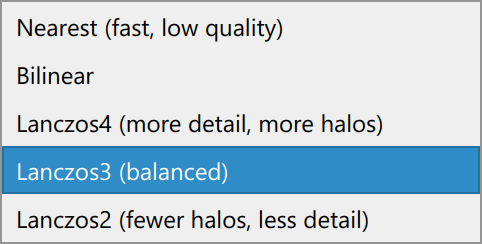
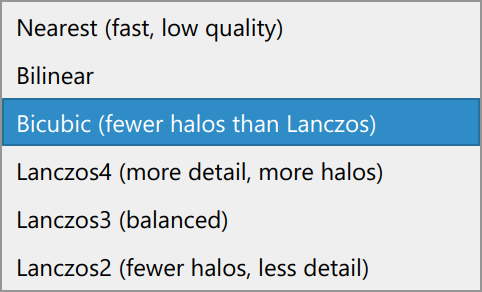
Add Bicubic to the README's scaling table and settings note
Value 3 is Bicubic now, so the Lanczos section no longer says that nothing
uses it. The measurement table gains a Bicubic column (9 grey levels, 6 px,
2.9 px rise, 90 % stripe contrast, from the same edge and stripes), and
the method list and Options screenshots show the Bicubic entry with its
new label.

diff --git a/README.md b/README.md
@@ -114,16 +114,16 @@ The same line art enlarged 3x, with the boxed part shown 3x larger again below i
 
 Measured on a grey edge (64 to 192) and on fine stripes, both enlarged 4x:
 
-| | Lanczos4 | Lanczos3 | Lanczos2 | Bilinear |
-|---|---|---|---|---|
-| Overshoot past the edge (grey levels) | 16 | 15 | 10 | 0 |
-| Pixels from the edge that change | 13 | 9 | 6 | 2 |
-| Edge rise from 10% to 90% (px) | 3.0 | 3.0 | 3.0 | 3.4 |
-| Contrast kept on stripes with a 3 px period | 98% | 96% | 90% | 77% |
+| | Lanczos4 | Lanczos3 | Lanczos2 | Bicubic | Bilinear |
+|---|---|---|---|---|---|
+| Overshoot past the edge (grey levels) | 16 | 15 | 10 | 9 | 0 |
+| Pixels from the edge that change | 13 | 9 | 6 | 6 | 2 |
+| Edge rise from 10% to 90% (px) | 3.0 | 3.0 | 3.0 | 2.9 | 3.4 |
+| Contrast kept on stripes with a 3 px period | 98% | 96% | 90% | 90% | 77% |
 
 - **Edges** are equally steep with all three. The difference is in the halos and the finest detail.
 - **Shrinking** 4x, the overshoot is at most 2 grey levels with any of them.
-- **Settings:** Lanczos3 and Lanczos2 are stored as 4 and 5. Nothing uses 3, so it stays free for the Bicubic method that the open upstream PR [#620](https://github.com/YACReader/yacreader/pull/620) stores as 3. A stored value the fork does not know, 3 included, falls back to Lanczos4.
+- **Settings:** Lanczos3 and Lanczos2 are stored as 4 and 5, and 3 is [Bicubic](#bicubic-scaling), as in the open upstream PR [#620](https://github.com/YACReader/yacreader/pull/620). A stored value the fork does not know falls back to Lanczos4.
 - **Requested upstream:** [Algorithms for image scaling](https://github.com/YACReader/yacreader/issues/529) asks for Lanczos3.
 
 ---
